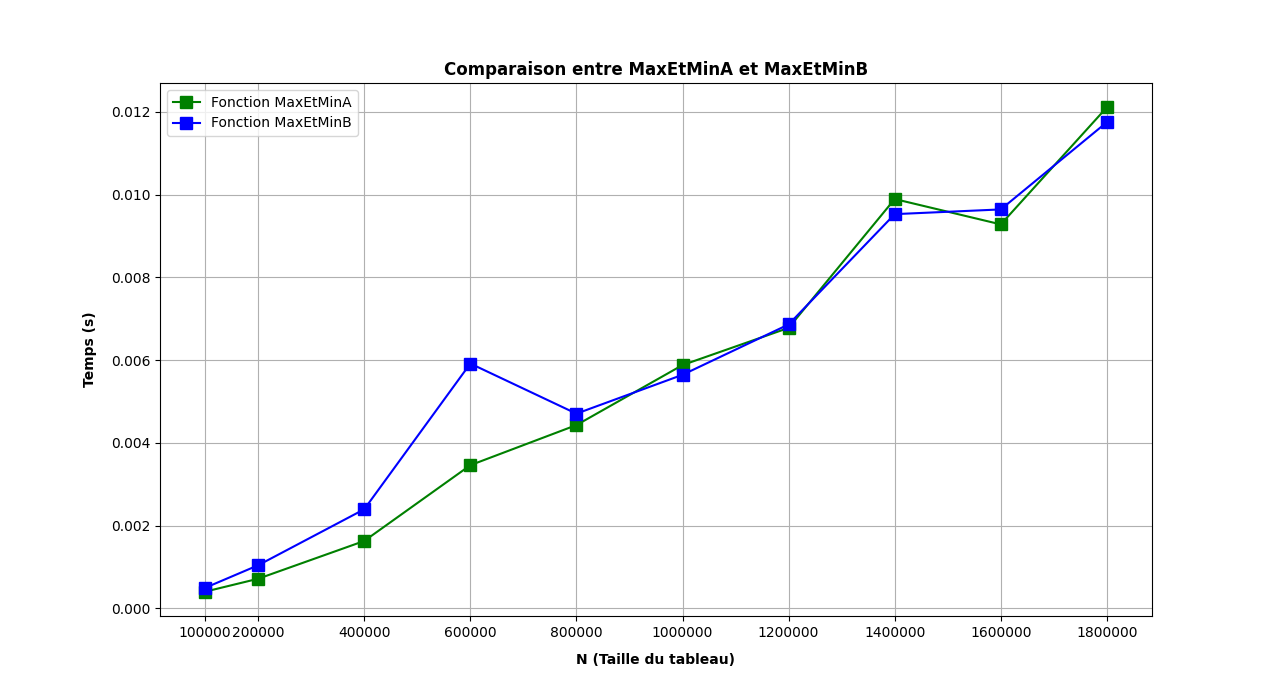
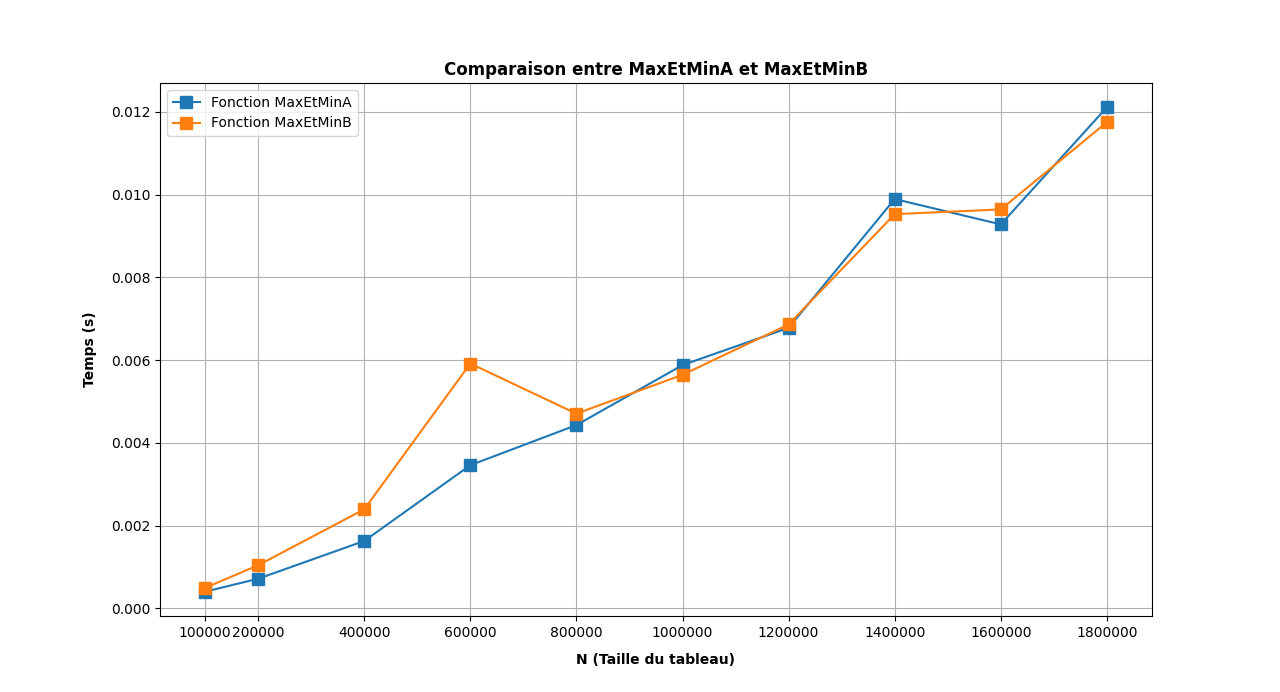
Algo 3 dicho + histogramme python + png

diff --git a/TP2/algo3.c b/TP2/algo3.c
@@ -1,20 +1,60 @@
 #include <stdio.h>
+#include <stdio.h>
 #include <stdlib.h>
+#include <string.h>
 #include <time.h>
+#include <math.h>
+#include <stdio.h>
+#include <intrin.h>
+#include <stdint.h>
+#include <windows.h>
 #include <stdbool.h>
 
+// structure personnalisee pour le temps haute précision sous windows
+typedef struct {
+    long tv_sec;
+    long tv_nsec;
+} high_res_time_t;
 
-int rechElets_Dicho(int tab[], int n, int x){
+// fonctions de timing haute précision pour windows
+void get_high_precision_time(high_res_time_t *ts) {
+    LARGE_INTEGER frequency, counter;
+    QueryPerformanceFrequency(&frequency);
+    QueryPerformanceCounter(&counter);
+    ts->tv_sec = (long)(counter.QuadPart / frequency.QuadPart);
+    ts->tv_nsec = (long)(((counter.QuadPart % frequency.QuadPart) * 1000000000LL) / frequency.QuadPart);
+}
+
+double get_time_diff_s(high_res_time_t *start, high_res_time_t *end) {
+    return (end->tv_sec - start->tv_sec) + (end->tv_nsec - start->tv_nsec) / 1e9;
+}
+
+void genereTableauTrieAvecRepetition(long long tab[], long long n) { //genere tableau trie avec repetitions
+    tab[0] = (long long)rand() % 1000L;
+
+    for (long long i = 1; i < n; i++) {
+        tab[i] = tab[i-1] + ((long long)rand() % 5L);
+    }
+}
+
+double rechElets_Dicho(long long tab[], long long n, long long x,int* trouve){
 
     int deb = 0;
     int fin = n-1;
     int m;
 
+    double time_taken;
+    high_res_time_t start, end;
+    get_high_precision_time(&start);
+
     while (deb <= fin){
         m = (deb + fin) / 2;
 
         if (tab[m] == x) {
-            return 1;
+            *trouve=1;
+            get_high_precision_time(&end);
+            time_taken = get_time_diff_s(&start, &end);
+            return time_taken;
         }
         else if (tab[m] < x) {
             deb = m + 1;
@@ -23,44 +63,43 @@ int rechElets_Dicho(int tab[], int n, int x){
             fin = m - 1;
         }
     }
-    return 0;
+    *trouve=0;
+
+    get_high_precision_time(&end);
+    time_taken = get_time_diff_s(&start, &end);
+    return time_taken;
     }
 
 
 int main() {
+    double temps1,temps2;
     srand(time(NULL));
+    long long valeurs_n[10] = {100000, 200000, 400000, 600000, 800000, 1000000, 1200000, 1400000, 1600000, 1800000};
+    int i=0,trouve;
 
-    printf("Recherche dans un tableau trié (valeurs repetées possibles)\n");
-    int n2;
-    printf("Entrez la taille du tableau pour algo2 : ");
-    scanf("%d", &n2);
+    FILE *f = fopen("dicho.csv", "w");
+    fprintf(f, "Algo,N,BestCase,WorstCase\n");
 
-    int *tab2 = malloc(n2 * sizeof(int));
-    if (!tab2) return 1;
+    while (i<10) {
+        printf("\n\nTaille N: %lld ",valeurs_n[i]);
+        long long *tab = malloc(valeurs_n[i] * sizeof(long long));
+        if (!tab) return 1;
 
-    genereTableauTrieAvecRepetition(tab2, n2);
+        genereTableauTrieAvecRepetition(tab,valeurs_n[i]);
 
-    printf("Tableau trie : ");
-    for (int i = 0; i < n2; i++) printf("%d ", tab2[i]);
-    printf("\n");
+        //pire cas
+        temps1=rechElets_Dicho(tab,valeurs_n[i],(tab[(valeurs_n[i])-1]+1000),&trouve);
+        printf("\nPire cas x=%lld, trouve:%d, temps: %.9f\n",tab[(valeurs_n[i])-1]+1,trouve,temps1);
 
-    int x;
-    printf("Entrez la valeur a rechercher : ");
-    scanf("%d", &x);
+        //meilleur cas
+        temps2=rechElets_Dicho(tab,valeurs_n[i],tab[((valeurs_n[i])-1)/2],&trouve);
+        printf("Meilleur cas x=%lld, trouve:%d, temps: %.9f",tab[((valeurs_n[i])-1)/2],trouve,temps2);
 
-    //test algo2
-    clock_t debut = clock();
-    int res = rechElets_Dicho(tab2, n2, x);
-    clock_t fin = clock();
+        fprintf(f,"3,%lld,%.9f,%.9f\n",valeurs_n[i],temps1,temps2);
+        i++;
+        free(tab);
+    }
 
-    double temps = ((double)(fin - debut)) / CLOCKS_PER_SEC;
-
-    if (res == 1)
-        printf("La valeur %d existe dans le tableau.\n", x);
-    else
-        printf("La valeur %d n'existe pas dans le tableau.\n", x);
-    printf("Temps d'exécution : %.6f s\n", temps);
-
-    free(tab2);
-
+    fclose(f);
+    return 0;
 }

diff --git a/TP2/main.c b/TP2/main.c
@@ -29,6 +29,46 @@ double get_time_diff_s(high_res_time_t *start, high_res_time_t *end) {
     return (end->tv_sec - start->tv_sec) + (end->tv_nsec - start->tv_nsec) / 1e9;
 }
 
+void genereTableauTrieAvecRepetition(long long tab[], long long n) { //genere tableau trie avec repetitions
+    tab[0] = (long long)rand() % 1000L;
+
+    for (long long i = 1; i < n; i++) {
+        tab[i] = tab[i-1] + ((long long)rand() % 5L);
+    }
+}
+
+double rechElets_Dicho(long long tab[], long long n, long long x,int* trouve){
+
+    int deb = 0;
+    int fin = n-1;
+    int m;
+
+    double time_taken;
+    high_res_time_t start, end;
+    get_high_precision_time(&start);
+
+    while (deb <= fin){
+        m = (deb + fin) / 2;
+
+        if (tab[m] == x) {
+            *trouve=1;
+            get_high_precision_time(&end);
+            time_taken = get_time_diff_s(&start, &end);
+            return time_taken;
+        }
+        else if (tab[m] < x) {
+            deb = m + 1;
+        }
+        else {
+            fin = m - 1;
+        }
+    }
+    *trouve=0;
+
+    get_high_precision_time(&end);
+    time_taken = get_time_diff_s(&start, &end);
+    return time_taken;
+}
 
 void genereTableauSansRepetition(long long tab[], long long n) {
     if (n <= 0) return;
@@ -114,12 +154,44 @@ double MaxEtMinB(long long tab[], long long n, long long *Max, long long *Min, l
 
 
 int main() {
-    FILE *f = fopen("PARTIE2.csv", "w");
-    fprintf(f, "Algo,N,Temps,Compteur\n");
 
     double temps1,temps2;
-    int t,i=0;
+    srand(time(NULL));
     long long valeurs_n[10] = {100000, 200000, 400000, 600000, 800000, 1000000, 1200000, 1400000, 1600000, 1800000};
+    int i=0,trouve;
+
+    FILE *f = fopen("dicho.csv", "w");
+    fprintf(f, "Algo,N,WorstCase,BestCase\n");
+
+    while (i<10) {
+        printf("\n\nTaille N: %lld ",valeurs_n[i]);
+        long long *tab = malloc(valeurs_n[i] * sizeof(long long));
+        if (!tab) return 1;
+
+        genereTableauTrieAvecRepetition(tab,valeurs_n[i]);
+
+        //pire cas
+        temps1=rechElets_Dicho(tab,valeurs_n[i],(tab[(valeurs_n[i])-1]+1000),&trouve);
+        printf("\nPire cas x=%lld, trouve:%d, temps: %.9f\n",tab[(valeurs_n[i])-1]+1,trouve,temps1);
+
+        //meilleur cas
+        temps2=rechElets_Dicho(tab,valeurs_n[i],tab[((valeurs_n[i])-1)/2],&trouve);
+        printf("Meilleur cas x=%lld, trouve:%d, temps: %.9f",tab[((valeurs_n[i])-1)/2],trouve,temps2);
+
+        fprintf(f,"3,%lld,%.9f,%.9f\n",valeurs_n[i],temps1,temps2);
+        i++;
+        free(tab);
+    }
+
+    fclose(f);
+
+
+    FILE *f2 = fopen("PARTIE2.csv", "w");
+    fprintf(f2, "Algo,N,Temps,Compteur\n");
+
+    double temps12,temps22;
+    int t;
+    i=0;
 
     while (i<10) {
         long long *tab = malloc(valeurs_n[i] * sizeof(long long));
@@ -130,16 +202,16 @@ int main() {
         long long Max,Min,Max2,Min2;
         long long CompteurA,CompteurB;
 
-        temps1=MaxEtMinA(tab,valeurs_n[i],&Max,&Min,&CompteurA);
-        fprintf(f,"A,%lld,%f,%lld\n",valeurs_n[i],temps1,CompteurA);
-        temps2=MaxEtMinB(tab,valeurs_n[i],&Max2,&Min2,&CompteurB);
-        fprintf(f,"B,%lld,%f,%lld\n",valeurs_n[i],temps2,CompteurB);
+        temps12=MaxEtMinA(tab,valeurs_n[i],&Max,&Min,&CompteurA);
+        fprintf(f2,"A,%lld,%f,%lld\n",valeurs_n[i],temps12,CompteurA);
+        temps22=MaxEtMinB(tab,valeurs_n[i],&Max2,&Min2,&CompteurB);
+        fprintf(f2,"B,%lld,%f,%lld\n",valeurs_n[i],temps22,CompteurB);
 
-        printf("\nTaille du tableau: %lld, Max: %lld, Min: %lld\nTemps MaxEtMinA: %f, Nombres de comparaisons: %lld\nTemps MaxEtMinB: %f, Nombres de comparaisons: %lld\n",valeurs_n[i], Max,Min,temps1,CompteurA,temps2,CompteurB);
+        printf("\nTaille du tableau: %lld, Max: %lld, Min: %lld\nTemps MaxEtMinA: %f, Nombres de comparaisons: %lld\nTemps MaxEtMinB: %f, Nombres de comparaisons: %lld\n",valeurs_n[i], Max,Min,temps12,CompteurA,temps22,CompteurB);
         free(tab);
         i++;
     }
-    fclose(f);
+    fclose(f2);
     return 0;
 
 

diff --git a/TP2/histoALGO3.py b/TP2/histoALGO3.py
@@ -1,0 +1,35 @@
+import pandas as pd
+import matplotlib.pyplot as plt
+import numpy as np
+
+# Charger le CSV
+df = pd.read_csv("dicho.csv")   # remplace par ton nom de fichier
+
+# Extraire les colonnes utiles
+N = df["N"]
+worst = df["WorstCase"]
+best = df["BestCase"]
+
+# Largeur des barres
+width = 0.35
+
+# Position de base pour chaque N
+x = np.arange(len(N))
+
+# Création du plot
+plt.figure(figsize=(10, 6))
+
+plt.bar(x - width/2, worst, width, label="Pire Cas")
+plt.bar(x + width/2, best, width, label="Meilleur Cas")
+
+# Nom des axes
+plt.xlabel("N (Taille du tableau)",fontweight="bold")
+plt.ylabel("Temps (secondes)",fontweight="bold")
+plt.title("Pire vs Meilleur cas de la recherche dichotomique en fonction de N",fontweight="bold")
+plt.ticklabel_format(style='plain', axis='y')
+
+# Mettre les valeurs de N sur l'axe X
+plt.xticks(x, N)
+
+plt.legend()
+plt.show()

diff --git a/TP2/histo.py b/TP2/histo.py
@@ -15,8 +15,8 @@ width = 0.35
 
 plt.figure(figsize=(10, 6))
 
-plt.bar(x - width/2, df_A["Compteur"], width, label="Fonction MaxEtMinA", color="green")
-plt.bar(x + width/2, df_B["Compteur"], width, label="Fonction MaxEtMinB", color="blue")
+plt.bar(x - width/2, df_A["Compteur"], width, label="Fonction MaxEtMinA")
+plt.bar(x + width/2, df_B["Compteur"], width, label="Fonction MaxEtMinB")
 
 
 plt.xticks(x, df_A["N"], rotation=0)  

diff --git a/TP2/graph.py b/TP2/graph.py
@@ -13,7 +13,6 @@ plt.figure(figsize=(10, 6))
 
 plt.plot(
     df_A["N"], df_A["Temps"],
-    color="green",
     marker="s",          
     markersize=8,
     label="Fonction MaxEtMinA"
@@ -21,7 +20,6 @@ plt.plot(
 
 plt.plot(
     df_B["N"], df_B["Temps"],
-    color="blue",
     marker="s",          
     markersize=8,
     label="Fonction MaxEtMinB"
